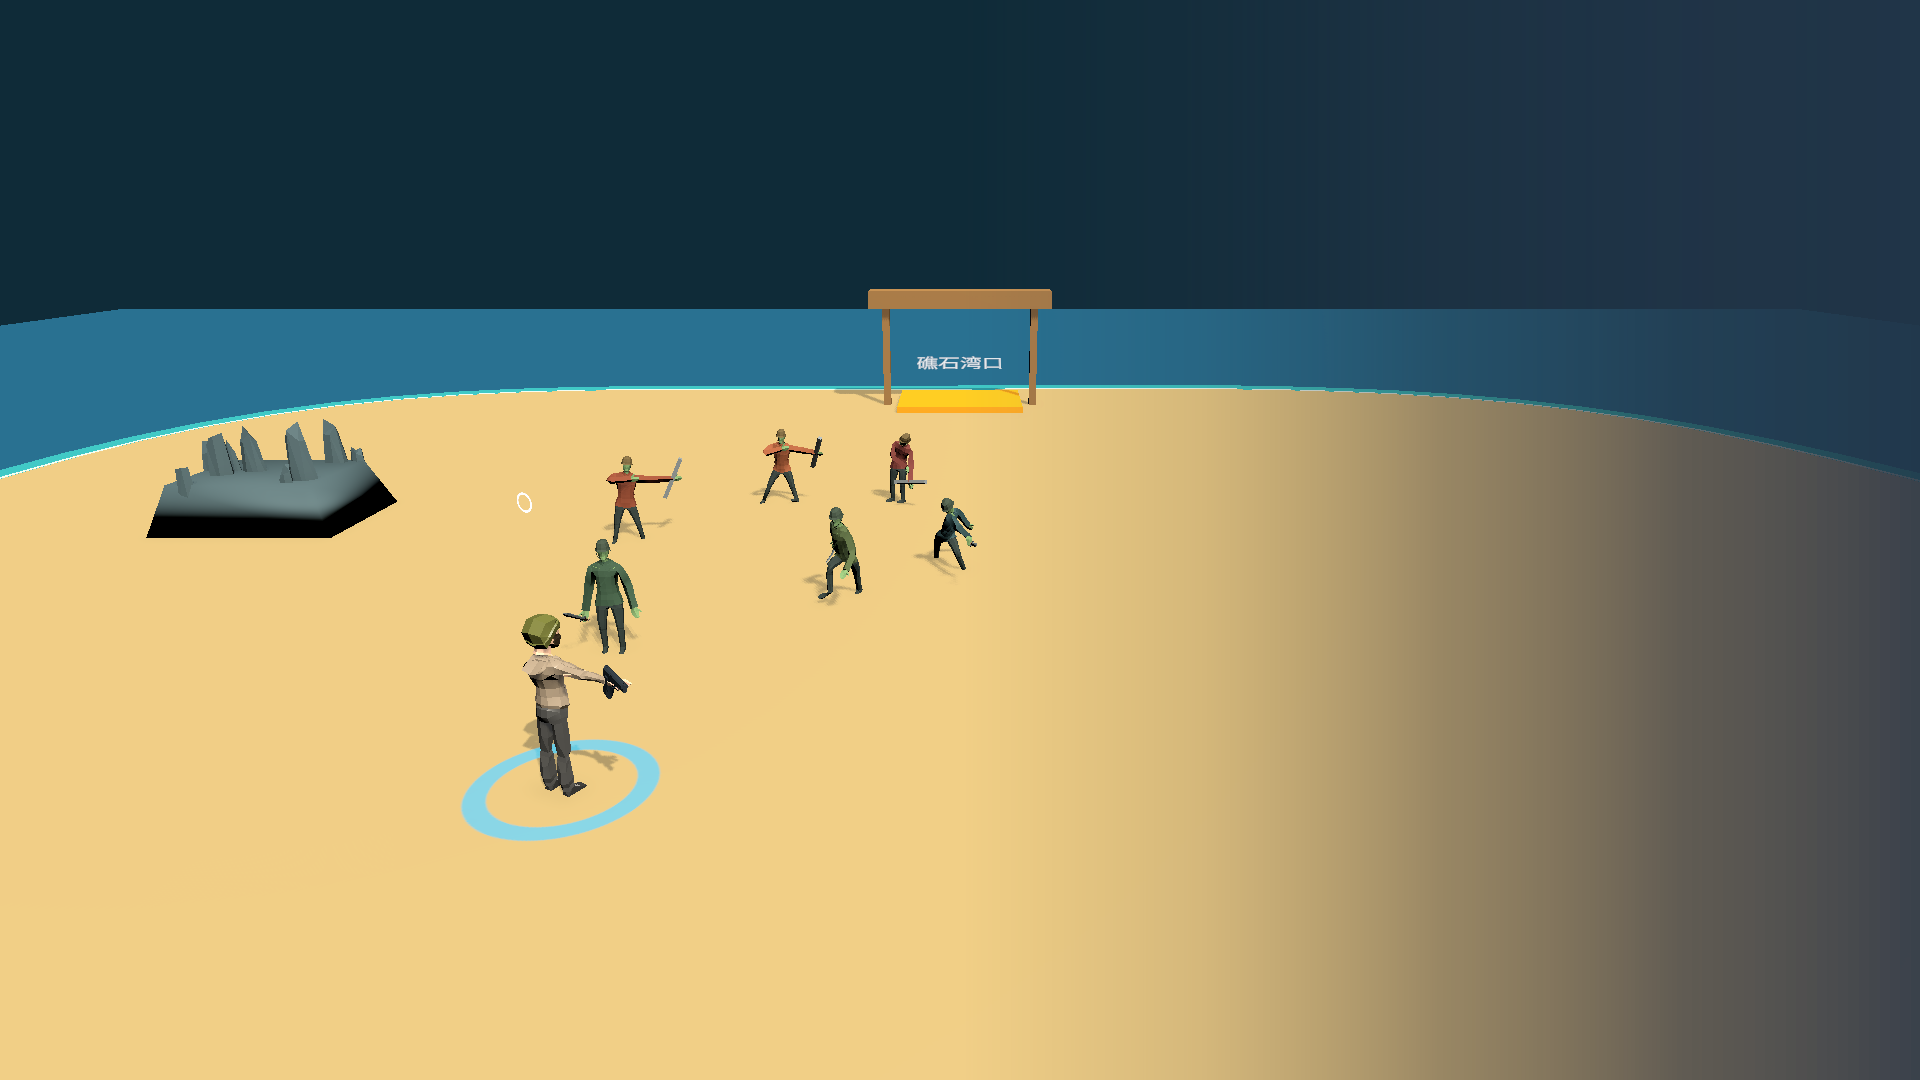
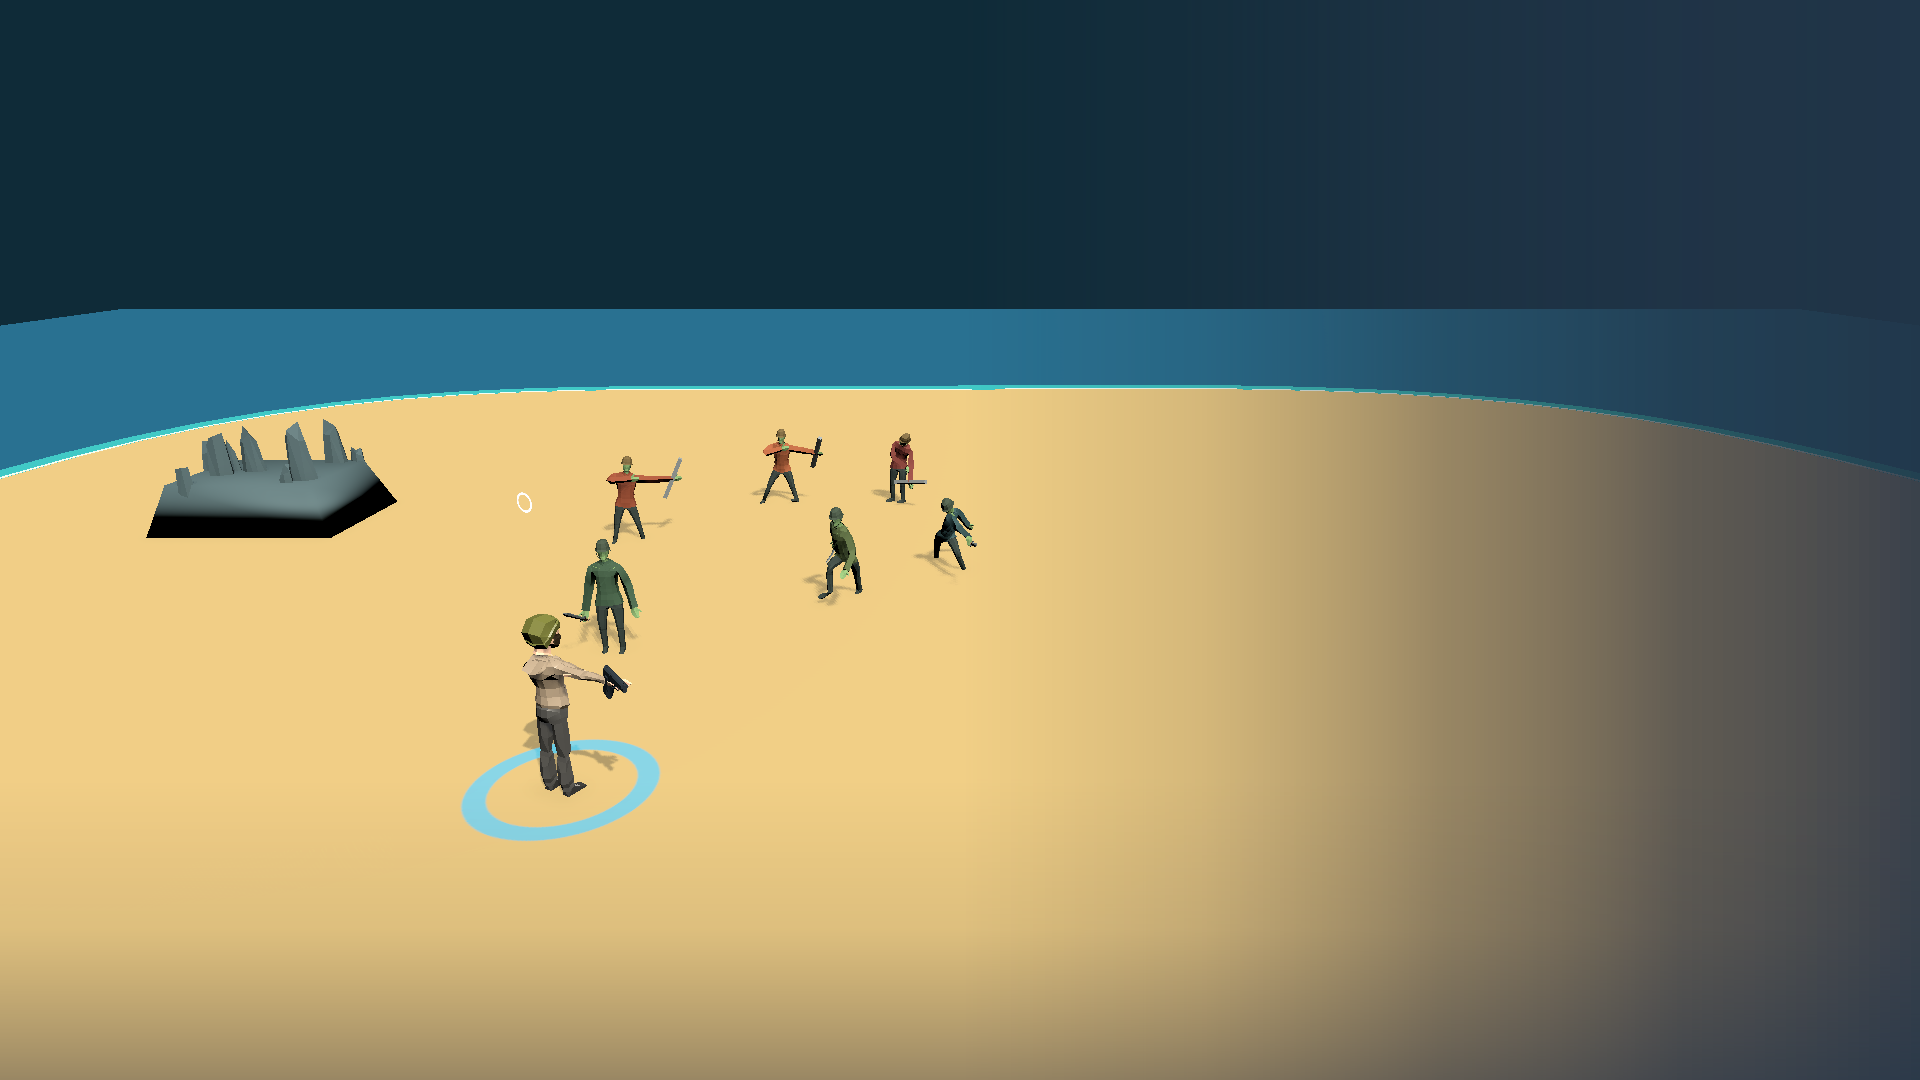
改善菜单背景页脚可读性并移除固定语言文字

Changed region(s): [[0.0, 0.8556, 0.9375, 1.0], [0.4375, 0.2444, 0.5625, 0.3972]]

diff --git a/Tools/Unity/ArcadeInfectedBackgroundAuthoring.cs b/Tools/Unity/ArcadeInfectedBackgroundAuthoring.cs
@@ -52,9 +52,6 @@ public static class ArcadeInfectedBackgroundAuthoring
                 Call(view,"CreateArenaCollision",1,catalog.Rule.ArenaHalfWidth,catalog.Rule.ArenaHalfHeight,ArcadeIslandLayout.GetObstacles(round,catalog.Rule.ArenaHalfWidth,catalog.Rule.ArenaHalfHeight));
                 Call(view,"LoadContentAsync",1);view.SetIslandRound(round);view.SetOpening(opening,round==4);
                 if(!view.IsIslandRoundReady)throw new InvalidOperationException(view.IslandRoundLoadError??"海岛正式资源未准备完成");
-                if(round!=3)view.SetExits(round<3?new[]{-(round+1)}:new[]{2,3},catalog.Rule.ArenaHalfHeight,false);
-                var region=new FirepowerLoop.Arcade.ArcadeIslandRegion(catalog.Rule.ArenaHalfWidth,catalog.Rule.ArenaHalfHeight,round);
-                var edge=region.Outer[round==2?48:72];view.SetIslandEntryWarning(new Vector2(edge.X*.95f,edge.Y*.95f),true);
                 var actors=new GameObject("Actors");actors.transform.SetParent(root.transform,false);actors.SetActive(false);
                 for(int i=0;i<6;i++)
                 {
@@ -126,6 +123,18 @@ public static class ArcadeInfectedBackgroundAuthoring
         go.GetComponent<MeshFilter>().sharedMesh=mesh;go.GetComponent<MeshRenderer>().sharedMaterial=material;
         go.GetComponent<MeshRenderer>().shadowCastingMode=UnityEngine.Rendering.ShadowCastingMode.Off;
         owned.Add(mesh);owned.Add(material);
+        // 页脚版本/更新提示使用白字，在浅沙地上增加柔和底部遮罩。
+        var footer=new Mesh{name="MenuFooterGradient"};vertices.Clear();colors.Clear();indices.Clear();
+        for(int row=0;row<3;row++)
+        {
+            float v=row*.14f;float alpha=new[]{.65f,.18f,0f}[row];
+            for(int x=0;x<2;x++){vertices.Add(camera.ViewportToWorldPoint(new Vector3(x,v,1f)));colors.Add(new Color(.015f,.035f,.065f,alpha));}
+            if(row>0){int i=row*2;indices.AddRange(new[]{i-2,i-1,i,i,i-1,i+1});}
+        }
+        footer.SetVertices(vertices);footer.SetColors(colors);footer.SetTriangles(indices,0);footer.RecalculateBounds();
+        var footerGo=new GameObject("MenuFooterGradient",typeof(MeshFilter),typeof(MeshRenderer));footerGo.transform.SetParent(parent,false);
+        footerGo.GetComponent<MeshFilter>().sharedMesh=footer;footerGo.GetComponent<MeshRenderer>().sharedMaterial=material;
+        footerGo.GetComponent<MeshRenderer>().shadowCastingMode=UnityEngine.Rendering.ShadowCastingMode.Off;owned.Add(footer);
     }
     /// <summary>保留旧图及.meta，只把既有RawImage/Image引用切到同一张正式模型渲染图。</summary>
     private static void BindArtwork(string source)
@@ -141,11 +150,19 @@ public static class ArcadeInfectedBackgroundAuthoring
             var root=PrefabUtility.LoadPrefabContents(path);
             try
             {
+                bool changed=false;
                 if(path.Contains("/Start.prefab"))
-                    root.GetComponentsInChildren<UnityEngine.UI.RawImage>(true).Single(image=>image.texture!=null&&
-                        (AssetDatabase.GetAssetPath(image.texture).Contains("_StartBackground")||AssetDatabase.GetAssetPath(image.texture)==asset)).texture=texture;
-                else root.GetComponentsInChildren<UnityEngine.UI.Image>(true).Single(image=>image.name=="BackgroundArtwork").sprite=sprite;
-                PrefabUtility.SaveAsPrefabAsset(root,path);
+                {
+                    var image=root.GetComponentsInChildren<UnityEngine.UI.RawImage>(true).Single(i=>i.texture!=null&&
+                        (AssetDatabase.GetAssetPath(i.texture).Contains("_StartBackground")||AssetDatabase.GetAssetPath(i.texture)==asset));
+                    changed=image.texture!=texture;image.texture=texture;
+                }
+                else
+                {
+                    var image=root.GetComponentsInChildren<UnityEngine.UI.Image>(true).Single(i=>i.name=="BackgroundArtwork");
+                    changed=image.sprite!=sprite;image.sprite=sprite;
+                }
+                if(changed)PrefabUtility.SaveAsPrefabAsset(root,path);
             }
             finally{PrefabUtility.UnloadPrefabContents(root);}
         }

diff --git a/Docs/Plans/Artifacts/BrightStyle-20261017/README.md b/Docs/Plans/Artifacts/BrightStyle-20261017/README.md
@@ -5,3 +5,5 @@
 正式Start/Loading引用同一张Unity搭景渲染，主角与轻型敌人为当前正式资源；不是自然游玩截图。原图及meta保留。菜单两比例均检查，无TMP溢出；Loading只验证原正式Image绑定和限定测试，未计为实际加载流程新截图。
 
 FullRouteContentFlowTests最多11、StartMenuPresentationTests最多5，EditMode/includePassingTests=true，分别11/11、5/5；发现3433不等于执行数。只读复核无可确认Critical/Important。未运行Player Build。
+
+菜单后续修订：背景搭景中隐藏固定中文关卡文字，底部渐暗提高版本号/更新入口可读性；不改正式地图文字。中英文1920×1080、2400×1080四张最终图见menu-final；溢出0，StartMenuPresentationTests限定5项再次5/5。
